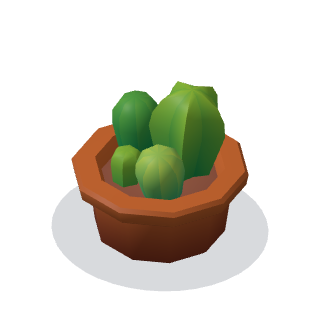
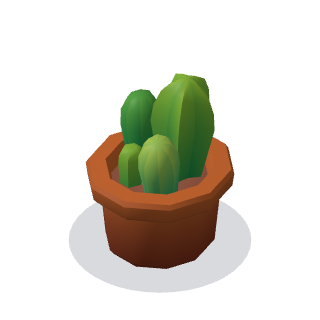
Fix plant pot size: fit the model to its 0.6 m footprint
The plant was fitted by height alone, so it was drawn about 0.85 m wide, 42%
over its footprint. Stretch it to the footprint at 0.8 m height. Regenerate
its icon and the contact sheet, and remove the plant pot's known-mismatch
allowance from the bounding-box test.

Claude-Session: https://claude.ai/code/session_01VbLrW7odCSmEqDq3pYYvr4

diff --git a/tests/unit/boundingBox.test.ts b/tests/unit/boundingBox.test.ts
@@ -71,12 +71,10 @@ const SCALED_FOOTPRINT: Partial<Record<PlacedAsset['type'], { x: number; z: numb
 /**
  * How far a 'height'-fitted model may overhang its declared footprint before the
  * collision and occupancy maths stop matching what is drawn. Everything else must stay
- * within 5%. The plant pot is KNOWN to be larger than its footprint. Tighten these when the
- * footprints or models are corrected; the test fails if they get worse.
+ * within 5%. Add an entry here only for a known mismatch, and remove it once the footprint
+ * or model is corrected; the test fails if a listed asset gets worse.
  */
-const MAX_OVERHANG: Partial<Record<PlacedAsset['type'], number>> = {
-  plant_pot: 1.45,
-};
+const MAX_OVERHANG: Partial<Record<PlacedAsset['type'], number>> = {};
 const DEFAULT_OVERHANG = 1.05;
 
 /** Same idea for stretched models: the library table_small and cabinet are blocky, so filling a real footprint distorts them. */

diff --git a/src/three/modelLibrary.ts b/src/three/modelLibrary.ts
@@ -41,7 +41,8 @@ export const MODEL_SPECS: Partial<Record<AssetType, ModelSpec>> = {
   reception_desk: { file: 'cabinet_medium.gltf', fit: 'stretch', height: 1.1 },
   // These two exist in the type catalogue but used to render as a grey placeholder cube.
   cabinet: { file: 'cabinet_medium.gltf', fit: 'stretch', height: 1.0 },
-  plant_pot: { file: 'cactus_medium_A.gltf', fit: 'height', height: 0.8 },
+  // Stretched to the 0.6 m footprint: fitting by height alone drew it ~0.85 m wide, 42% over the footprint.
+  plant_pot: { file: 'cactus_medium_A.gltf', fit: 'stretch', height: 0.8 },
   // Not listed (kept procedural): wall/ceiling devices (AP, CCTV, ports, intercom, door
   // reader) — no accessible free library offers network/AV hardware — and the whiteboard.
 };
